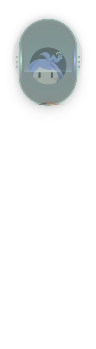
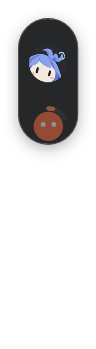
feat: link window transitions to quota ring animations

Changed region(s): [[0.1562, 0.0287, 0.8438, 0.4298]]

diff --git a/src/main.rs b/src/main.rs
@@ -26,17 +26,21 @@ const SUBTITLES: [&str; 3] = ["OpenAI · ChatGPT", "Anthropic · Claude", "Credi
 const VALUES: [i32; 3] = [13, 24, 2];
 
 fn arc_svg(percent: i32) -> SharedString {
-    if percent <= 0 {
+    arc_percent(percent as f32)
+}
+
+fn arc_percent(percent: f32) -> SharedString {
+    if !percent.is_finite() || percent <= 0.0 {
         return "".into();
     }
-    if percent >= 100 {
+    if percent >= 100.0 {
         return "M 28 4 A 24 24 0 1 1 28 52 A 24 24 0 1 1 28 4 Z".into();
     }
-    let f = (percent.min(100) as f64 / 100.0).min(0.99998);
+    let f = (percent as f64 / 100.0).min(0.99998);
     let angle = (-90.0 + f * 360.0).to_radians();
     let end_x = 28.0 + 24.0 * angle.cos();
     let end_y = 28.0 + 24.0 * angle.sin();
-    let large = if percent > 50 { 1 } else { 0 };
+    let large = if percent > 50.0 { 1 } else { 0 };
     format!("M 28 4 A 24 24 0 {large} 1 {end_x:.2} {end_y:.2}").into()
 }
 
@@ -728,6 +732,17 @@ fn qa_entry_animation(mini: &MiniWindow, capsule: &CapsuleWindow, settings: &Set
             let heights = heights.clone();
             Timer::single_shot(Duration::from_millis(delay), move || {
                 let capsule = c.upgrade().unwrap();
+                // Read the phase before GPU readback / PNG encoding. A busy
+                // desktop may deliver a sampling timer after the rings settle.
+                if delay == 80 && capsule.get_visible_count() == 3 {
+                    let progress = capsule.get_ring_progress();
+                    let first = capsule.invoke_ring_phase(0);
+                    let last = capsule.invoke_ring_phase(2);
+                    assert!(first >= last, "Quota rings must follow their visible order");
+                    if progress > 0.2 && progress < 0.75 {
+                        assert!(first > last, "Active ring stages must be staggered");
+                    }
+                }
                 heights
                     .borrow_mut()
                     .push(qa_entry_frame(capsule.window(), name));
@@ -763,10 +778,13 @@ fn qa_entry_animation(mini: &MiniWindow, capsule: &CapsuleWindow, settings: &Set
                         let capsule = c.upgrade().unwrap();
                         qa_entry_frame(capsule.window(), "open-settled");
                         assert_eq!(
-                            capsule.get_effect_progress(),
+                            capsule.get_ring_progress(),
                             1.0,
-                            "Light tail must finish without an idle loop"
+                            "Quota rings must settle without an idle loop"
                         );
+                        for index in 0..capsule.get_visible_count() {
+                            assert_eq!(capsule.invoke_ring_phase(index), 1.0);
+                        }
                         qa_entry_close(
                             &m.upgrade().unwrap(),
                             &capsule,
@@ -858,12 +876,12 @@ fn qa_entry_close(
             assert!(!capsule.window().is_visible());
             assert!(mini.window().is_visible() && mini.get_revealed());
             assert_eq!(mini.get_reveal_progress(), 1.0);
-            assert_eq!(capsule.get_effect_progress(), 0.0);
+            assert_eq!(capsule.get_ring_progress(), 0.0);
             mini.invoke_toggle_expanded();
             assert!(!mini.window().is_visible());
             assert!(capsule.window().is_visible() && capsule.get_revealed());
             assert_eq!(capsule.get_reveal_progress(), 1.0);
-            assert_eq!(capsule.get_effect_progress(), 1.0);
+            assert_eq!(capsule.get_ring_progress(), 1.0);
             capsule.invoke_collapse_to_mini();
             settings.invoke_set_animations(true);
             eprintln!("WACU_QA entry_reversal_disabled_pass");
@@ -1160,6 +1178,7 @@ fn main() -> Result<(), Box<dyn Error>> {
     let entry_motion = EntryMotion::default();
 
     let capsule = CapsuleWindow::new()?;
+    capsule.on_render_arc(arc_percent);
     let mini = MiniWindow::new()?;
     mini.set_animated(initial.animations_enabled);
     let menu = EntryMenuWindow::new()?;
@@ -2816,6 +2835,15 @@ mod tests {
         assert!(arc_svg(0).is_empty());
         assert!(arc_svg(100).as_str().ends_with('Z'));
         assert!(!arc_svg(76).as_str().contains("L 0 0"));
+    }
+
+    #[test]
+    fn fractional_arc_preserves_smooth_sweep_and_boundaries() {
+        assert!(arc_percent(0.0).is_empty());
+        assert!(arc_percent(f32::NAN).is_empty());
+        assert!(arc_percent(0.5).as_str().ends_with("28.75 4.01"));
+        assert!(arc_percent(25.0).as_str().ends_with("52.00 28.00"));
+        assert_eq!(arc_percent(100.0), arc_svg(100));
     }
 
     #[test]

diff --git a/scripts/render-entry-motion.py b/scripts/render-entry-motion.py
@@ -31,7 +31,7 @@ for name, duration, label in sequence:
         canvas.alpha_composite(frame, (24, 30))
     frames.append(canvas.convert("RGB"))
     durations.append(duration)
-destination = root / "entry-aurora.gif"
+destination = root / "entry-rings.gif"
 frames[0].save(destination, save_all=True, append_images=frames[1:],
                duration=durations, loop=0, disposal=2)
 with Image.open(destination) as preview:

diff --git a/docs/UI_SPEC.md b/docs/UI_SPEC.md
@@ -8,7 +8,7 @@ Wacu 正式版不使用 Windows 系统托盘、Explorer 注入或系统 Widgets 
 
 两个窗口交替显示，不会持续绘制两个入口。Mini 与胶囊的桌面坐标完全独立：`mini_position` 控制 Mini（首次默认屏幕右下角），`saved_position` 控制纵向胶囊（首次默认同屏右侧中间）。点击切换时读取各自坐标，不通过中心点互相换算；拖动只改变被拖动窗口的坐标。跨屏情况下已保存的位置也按各自屏幕工作区限制。设置“行为”页提供分别恢复 Mini、胶囊默认位置。完整详情仍在胶囊旁，折叠时关闭详情。三档大小只影响胶囊，不改变 Mini 大小。
 
-切换使用“极光能量”动效。Mini 在 100ms 内缩至 72%、轻旋 12°并淡出；返回时用 180ms 贝塞尔曲线回弹，外圈出现薄荷绿／蓝紫双层光环。胶囊以顶部 56px 圆形为起点，用 180ms 舒展开完整外壳，Logo 由 82% 恢复原尺寸并从 -16° 回正。独立 `effect-progress` 在 320ms 内走完展开尾光，头像释放两层扩散光环，圆角内扫光向下移动，双侧光轨携六颗微光粒子依次掠过。服务环按可见顺序从头像附近向各自位置散开，以三次缓出曲线消除落位突变；收起用 140ms 反向聚拢。服务在外壳进度超过 85% 且自身入场超过 75% 后可点击。内容采用固定尺寸布局和裁切，文字、圆环不会被拉伸，原生窗口大小与坐标保持稳定。全部瞬时特效在完成时透明，静止后无持续帧循环；关闭动画同时结束外壳与特效。
+切换由额度圆环联动。Mini 在 100ms 内缩收淡出，返回用 180ms 贝塞尔曲线回弹；移除额外双层光圈和 Logo 旋转。胶囊外壳保持 180ms 展开、140ms 收起，独立 `ring-progress` 在 220ms 内完成圆环绘制，服务依次错开约 22ms。`QuotaItem.transition` 同时控制底环由空弧到整圈、彩色进度弧由零扫到当前用量、环径由 88% 恢复、中心图标由 90% 恢复，以及百分比淡入。每项只沿自身位置轻移 6px，取消横向散开与独立扫光、粒子、装饰光圈；颜色沿用服务已有配色。收起时圆环从下往上依次回收，再随外壳收拢。圆弧用小数进度生成，百分比和数据模型始终保留真实目标值；完成后使用原有静态路径，不持续调用 Rust 回调或运行动画。服务在外壳进度超过 85% 且自身入场超过 75% 后可点击，关闭动画时主体和圆环同步到达终态。原生窗口尺寸、桌面位置及文字尺寸保持稳定。
 
 交接时两窗短暂重叠绘制，退出动画完成后隐藏原窗口。共享代次标记取消过时的显示／隐藏定时器，允许途中反向切换；退场窗口停止接收点击，服务在展开进度超过 85% 后响应。关闭“显示动画”时同步切换，无交接延时、脉冲或持续帧循环。
 

diff --git a/README.md b/README.md
@@ -12,7 +12,7 @@ Windows 轻量 AI 用量守望工具。**现已完全重写为 Rust + Slint + Wi
 - 胶囊顶部显示品牌 Logo，下方排列 Claude Code、Codex、WorkBuddy，以双眼角色、带背景轨道的进度环和已用百分比显示演示用量；**已移除底部设置齿轮及其空白**。默认标准档主体宽 72px、圆环 56px；外观页可选择紧凑／标准／宽松三档（窗口宽分别为 88／96／104px）并记住偏好，旧标准升级后自动对应新的紧凑档。
 - 详情与设置采用紧凑排版：快览 296×422px、完整详情 296×612px、设置 460×600px；正文 13–14px、百分比 32px，使用石墨色渐变、圆角控件和柔和阴影。
 - Mini 和完整胶囊**分别保存自己的位置**（`mini_position` 与 `saved_position`）：Mini 默认停在屏幕右下角，胶囊首次展开默认停在右侧中间。两者可分别拖动，展开/收起后各自回到原位置，不再根据另一窗口坐标重新定位。设置 → 行为可以单独恢复 Mini 或胶囊的默认位置。
-- Mini ↔ 胶囊采用“极光能量”动效：Mini 双层光环、轻旋与回弹；胶囊展开时从头像释放薄荷绿／蓝紫光环，扫光沿外壳下降，服务环依次从头像附近散开，边缘光轨带六颗微光粒子；收起反向聚拢。主体展开 180ms、收起 140ms，展开尾光 320ms 内结束，服务在展开途中即可响应；快速反向不会被旧定时器误隐藏，静止后无持续动画。左键松开即启动切换，关闭动效后窗口即时交接。
+- Mini ↔ 胶囊采用额度圆环联动：展开时三个底环按顺序绘成完整圆环，彩色进度弧同步扫到当前用量，中心图标轻微放大落位，百分比随后显现；收起时从下往上回收圆弧。沿用服务自身配色，不再叠加独立光环、扫光或粒子。主体展开 180ms、收起 140ms，圆环在 220ms 内落定；快速反向不会被旧定时器误隐藏，静止后无持续动画。左键松开即启动切换，关闭动效后窗口即时交接。[实际帧预览](docs/screenshots/entry-rings.gif)。
 - 进度环使用 Slint 原生路径与圆头端点；详情保留短时淡入淡出，服务仍可显示选中高亮。
 - 点击服务先弹出窄版用量快览，再展开带示意趋势图的完整详情。
 - 深色分栏设置保留开机启动、服务管理、大小、动画、透明度和左右停靠位置。开机启动使用当前用户 Windows Run 注册表项，默认不启用；Mini 不启用旧版托盘弹出/贴边隐藏行为。

diff --git a/docs/WINDOWS_QA.md b/docs/WINDOWS_QA.md
@@ -2,6 +2,17 @@
 
 日期：2026-10-11 · 工程版本：v0.2.0 · 目标：Windows x64。
 
+## 2026-10-11 · 额度圆环联动
+
+- [x] 移除独立光圈、扫光、粒子和 Logo 旋转；沿用额度环自己的配色，以同一入场阶段控制底环绘制、彩色弧增长、环径／中心图标恢复和百分比淡入。
+- [x] 外壳仍为 180ms 展开／140ms 收起，额度环 220ms 内落定，各行错开约 22ms。服务保持原位并轻移 6px，收起时下方环先回收，不再从头像横向散开。
+- [x] 圆弧支持小数进度，动画不改用量模型或百分比目标值；完成后回到静态路径，关闭动画时立即到达终态。
+- [x] 19 项 Rust 单测、九组真实帧动画验收通过：三档尺寸与不同服务数、圆环顺序及终态、快速反向、固定窗口尺寸和动画开关。
+- [x] 四组 UI 事件回归及 12 组实际退出重启检查通过，用户配置未改变；格式检查、Debug / Release 构建通过。
+- [x] 真实帧已归档至通用入口截图，当前 GIF 为 `entry-rings.gif`；此前 `entry-aurora.gif` 保留为历史效果记录。
+
+![额度圆环联动实际帧](screenshots/entry-rings.gif)
+
 ## 2026-10-11 · 极光能量切换
 
 - [x] Mini 双层光环；胶囊头像轻旋回正、薄荷绿／蓝紫双圈扩散、圆角内部扫光、双侧光轨与六颗微光粒子，服务环从头像附近依次散开，收起反向聚拢。
